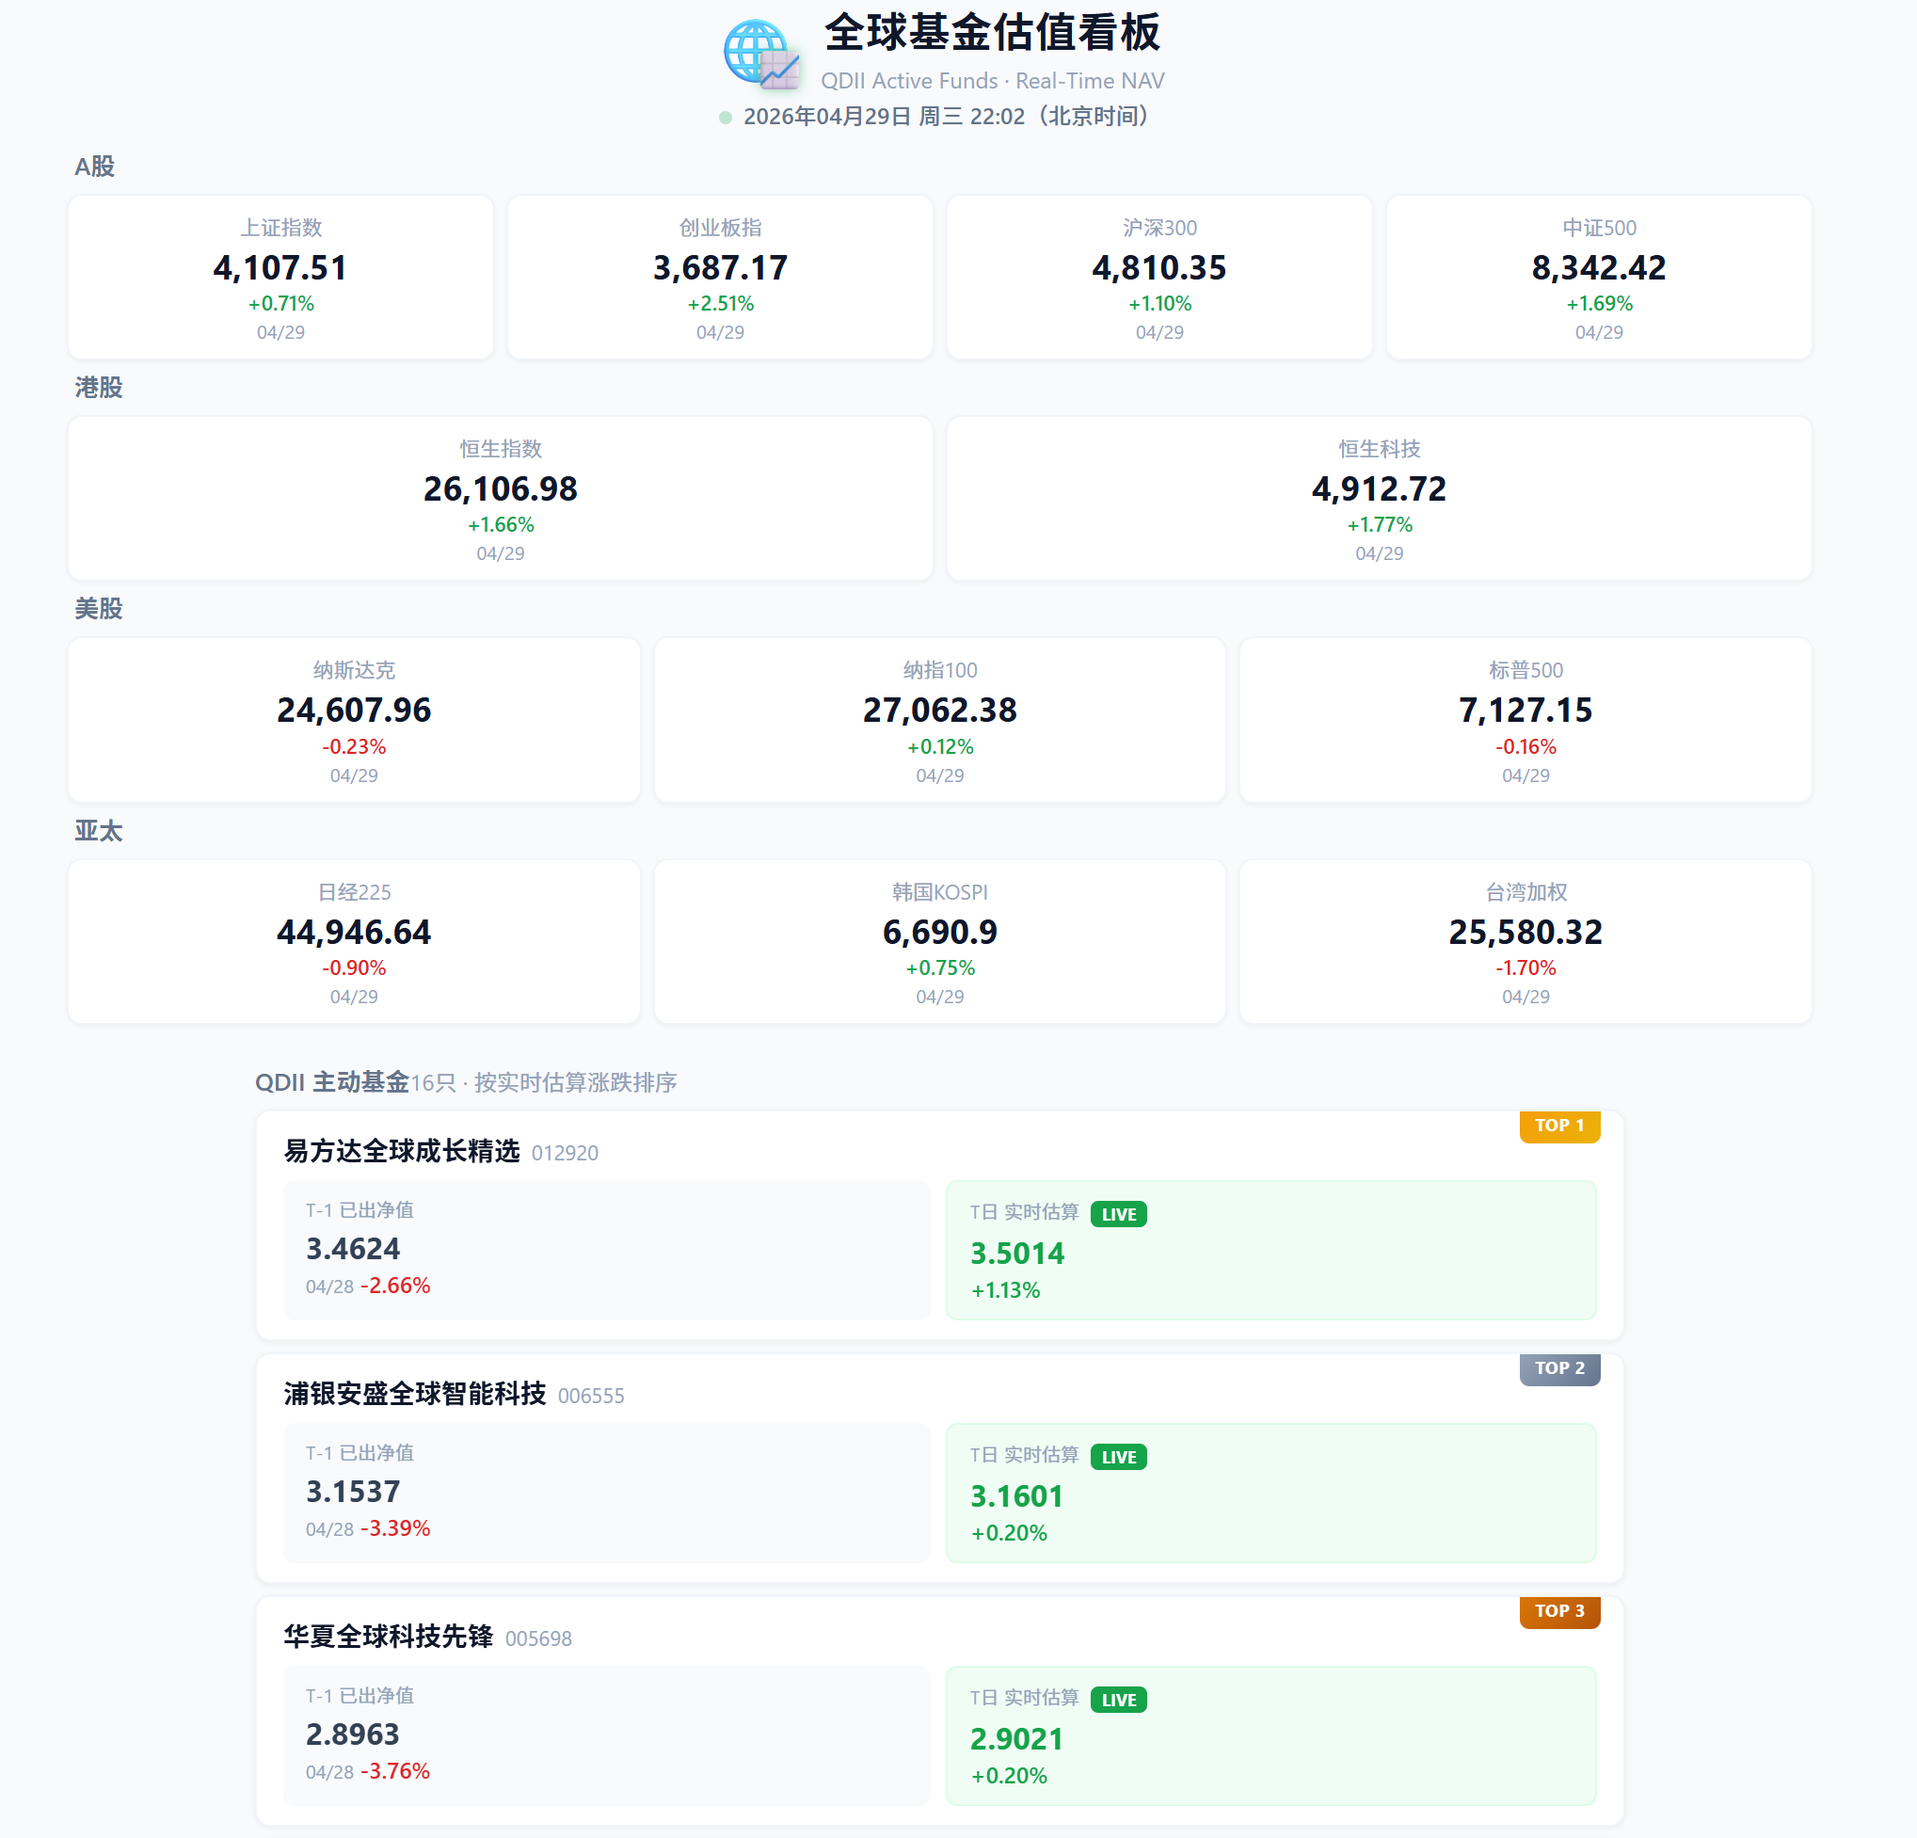
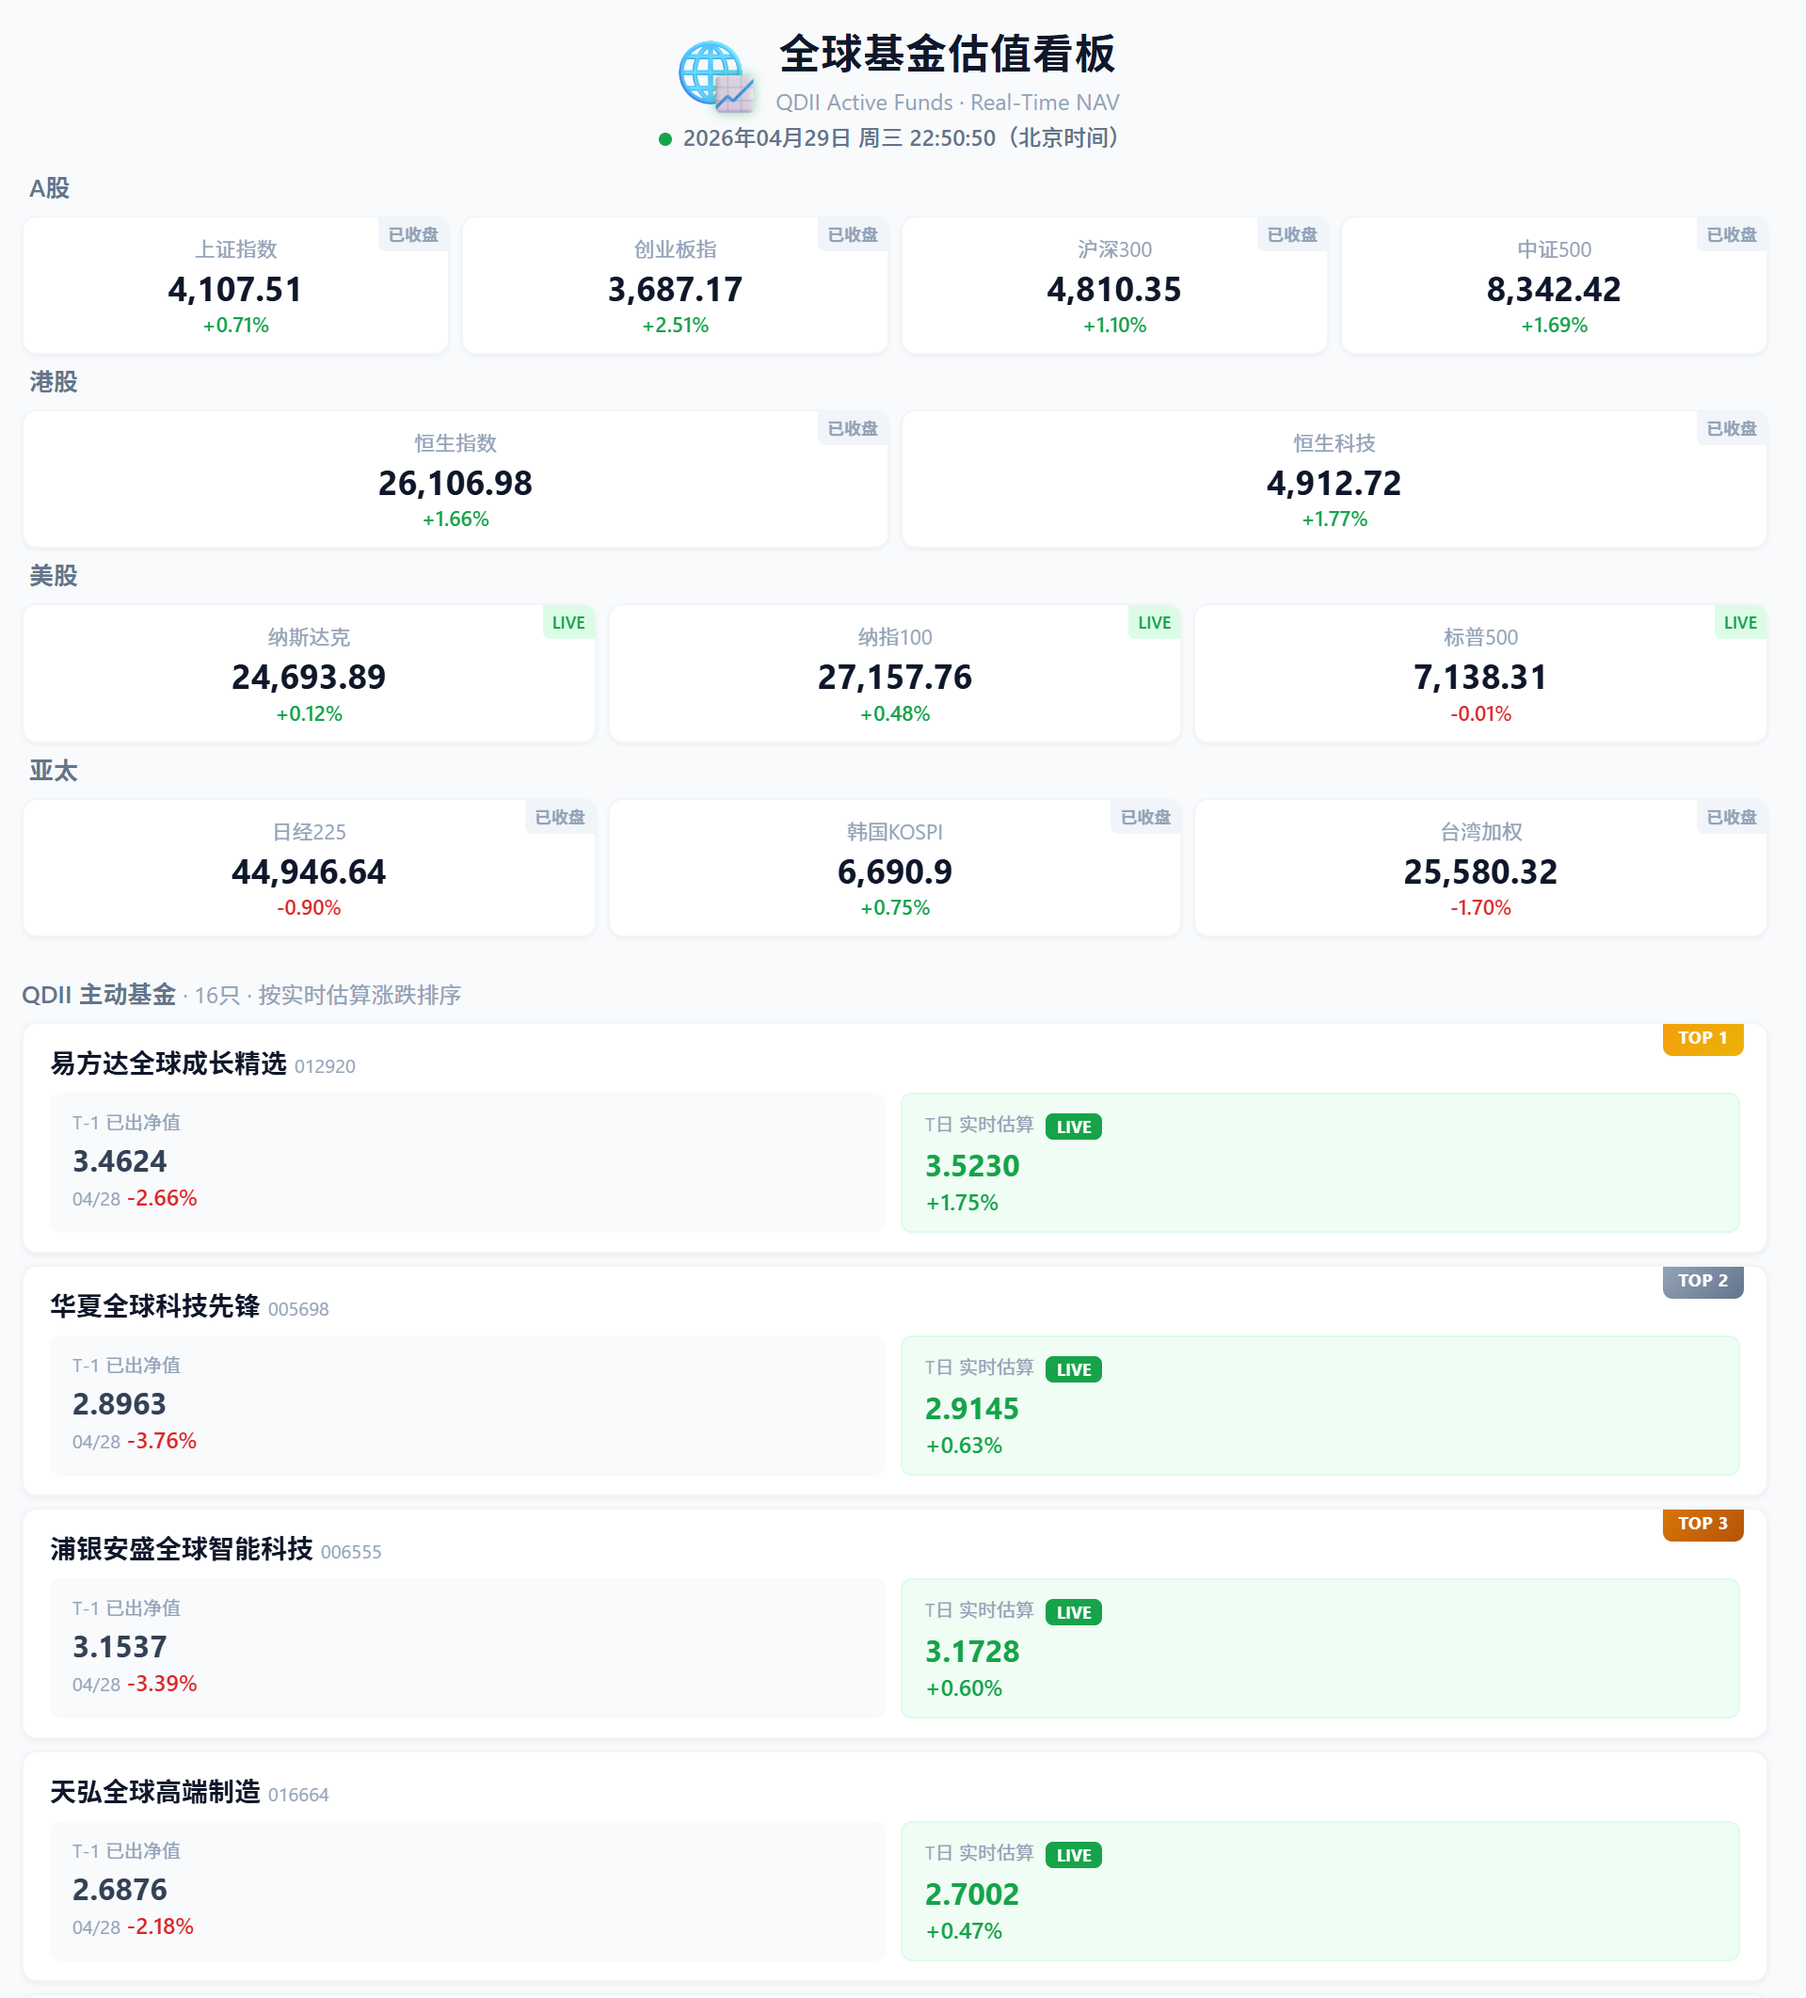
feat: 市场交易状态标签 + LIVE脉冲动画 + 秒级时钟 + 布局对齐

diff --git a/src/components/HoldingsTable.tsx b/src/components/HoldingsTable.tsx
@@ -1,18 +1,11 @@
 import type { Holding, QuoteData } from '../types';
+import { getMarketState } from '../marketHours';
 import styles from './HoldingsTable.module.css';
 
 interface Props {
   holdings: Holding[];
   quotes: QuoteData[];
   computedChange: number;
-}
-
-// Format YYYY-MM-DD → MM/DD
-function formatDate(yyyymmdd: string): string {
-  if (!yyyymmdd) return '';
-  const m = yyyymmdd.match(/^\d{4}-(\d{2})-(\d{2})$/);
-  if (m) return `${m[1]}/${m[2]}`;
-  return yyyymmdd;
 }
 
 export default function HoldingsTable({ holdings, quotes, computedChange }: Props) {
@@ -28,7 +21,7 @@ export default function HoldingsTable({ holdings, quotes, computedChange }: Prop
             <th className={styles.right}>现价</th>
             <th className={styles.right}>涨跌幅</th>
             <th className={styles.right}>贡献</th>
-            <th className={styles.right}>交易日</th>
+            <th className={styles.right}>状态</th>
           </tr>
         </thead>
         <tbody>
@@ -36,7 +29,7 @@ export default function HoldingsTable({ holdings, quotes, computedChange }: Prop
             const q = quoteMap.get(h.sinaSymbol);
             const up = (q?.changePercent ?? 0) >= 0;
             const contrib = q ? q.changePercent * h.weight : 0;
-            const dateStr = q ? formatDate(q.time) : '';
+            const state = getMarketState(h.sinaSymbol);
             return (
               <tr key={h.symbol}>
                 <td>
@@ -51,8 +44,10 @@ export default function HoldingsTable({ holdings, quotes, computedChange }: Prop
                 <td className={`${styles.right} ${contrib >= 0 ? styles.up : styles.down}`}>
                   {q ? `${contrib >= 0 ? '+' : ''}${contrib.toFixed(2)}%` : '-'}
                 </td>
-                <td className={`${styles.right} ${styles.timeCol}`}>
-                  {dateStr || '-'}
+                <td className={styles.right}>
+                  <span className={`${styles.stateTag} ${state === 'live' ? styles.stateLive : styles.stateClosed}`}>
+                    {state === 'live' ? 'LIVE' : '已收盘'}
+                  </span>
                 </td>
               </tr>
             );

diff --git a/src/marketHours.ts b/src/marketHours.ts
@@ -1,0 +1,58 @@
+// Trading sessions in Beijing time (UTC+8)
+interface Session { start: [number, number]; end: [number, number] }
+
+const SESSIONS: Record<string, Session[]> = {
+  cn: [
+    { start: [9, 30], end: [11, 30] },
+    { start: [13, 0], end: [15, 0] },
+  ],
+  hk: [
+    { start: [9, 30], end: [12, 0] },
+    { start: [13, 0], end: [16, 0] },
+  ],
+  us: [
+    // 9:30 AM ET = 21:30 Beijing (EDT); close 4:00 PM ET = 04:00 Beijing next day → 28:00
+    { start: [21, 30], end: [28, 0] },
+  ],
+  jp: [
+    { start: [8, 0], end: [10, 0] },
+    { start: [11, 30], end: [14, 0] },
+  ],
+  kr: [{ start: [8, 0], end: [14, 0] }],
+  tw: [{ start: [9, 0], end: [13, 30] }],
+};
+
+// Current Beijing time as minutes since midnight (0-1439)
+function beijingMinutes(): number {
+  const now = new Date();
+  const bj = new Date(now.getTime() + 8 * 60 * 60 * 1000);
+  return bj.getUTCHours() * 60 + bj.getUTCMinutes();
+}
+
+function isInSession(sessions: Session[]): boolean {
+  const mins = beijingMinutes();
+  return sessions.some((s) => {
+    const start = s.start[0] * 60 + s.start[1];
+    const end = s.end[0] * 60 + s.end[1];
+    return mins >= start && mins < end;
+  });
+}
+
+// Map sinaSymbol prefix to market key
+function marketKey(sinaSymbol: string): string | null {
+  if (sinaSymbol.startsWith('gb_')) return 'us';
+  if (sinaSymbol.startsWith('hk')) return 'hk';
+  if (sinaSymbol.startsWith('s_') || /^(sz|sh)\d/.test(sinaSymbol)) return 'cn';
+  if (sinaSymbol === 'int_nikkei') return 'jp';
+  if (sinaSymbol === 'b_KOSPI') return 'kr';
+  if (sinaSymbol === 'b_TWSE') return 'tw';
+  return null;
+}
+
+export type MarketState = 'live' | 'closed';
+
+export function getMarketState(sinaSymbol: string): MarketState {
+  const key = marketKey(sinaSymbol);
+  if (!key || !SESSIONS[key]) return 'closed';
+  return isInSession(SESSIONS[key]) ? 'live' : 'closed';
+}

diff --git a/src/components/IndexCards.tsx b/src/components/IndexCards.tsx
@@ -1,18 +1,11 @@
 import type { QuoteData, IndexConfig } from '../types';
 import { INDICES } from '../constants';
+import { getMarketState } from '../marketHours';
 import styles from './IndexCards.module.css';
 
 interface Props {
   quotes: Map<string, QuoteData>;
   loading: boolean;
-}
-
-// Format YYYY-MM-DD → MM/DD
-function formatDate(yyyymmdd: string): string {
-  if (!yyyymmdd) return '';
-  const m = yyyymmdd.match(/^\d{4}-(\d{2})-(\d{2})$/);
-  if (m) return `${m[1]}/${m[2]}`;
-  return yyyymmdd; // fallback: return as-is
 }
 
 function Card({ idx, data, loading }: { idx: IndexConfig; data?: QuoteData; loading: boolean }) {
@@ -26,15 +19,17 @@ function Card({ idx, data, loading }: { idx: IndexConfig; data?: QuoteData; load
     );
   }
   const up = data.change >= 0;
-  const dateStr = formatDate(data.time);
+  const state = getMarketState(idx.sinaSymbol);
   return (
     <div className={styles.card}>
+      <span className={`${styles.state} ${state === 'live' ? styles.stateLive : styles.stateClosed}`}>
+        {state === 'live' ? 'LIVE' : '已收盘'}
+      </span>
       <div className={styles.label}>{idx.name}</div>
       <div className={styles.price}>{data.price.toLocaleString()}</div>
       <div className={`${styles.change} ${up ? styles.up : styles.down}`}>
         {up ? '+' : ''}{data.changePercent.toFixed(2)}%
       </div>
-      {dateStr && <div className={styles.time}>{dateStr}</div>}
     </div>
   );
 }

diff --git a/src/components/Header.tsx b/src/components/Header.tsx
@@ -9,16 +9,17 @@ function formatTime() {
   const day = String(beijing.getUTCDate()).padStart(2, '0');
   const hour = String(beijing.getUTCHours()).padStart(2, '0');
   const minute = String(beijing.getUTCMinutes()).padStart(2, '0');
+  const second = String(beijing.getUTCSeconds()).padStart(2, '0');
   const weekdays = ['周日', '周一', '周二', '周三', '周四', '周五', '周六'];
   const weekday = weekdays[beijing.getUTCDay()];
-  return `${beijing.getUTCFullYear()}年${month}月${day}日 ${weekday} ${hour}:${minute}`;
+  return `${beijing.getUTCFullYear()}年${month}月${day}日 ${weekday} ${hour}:${minute}:${second}`;
 }
 
 export default function Header() {
   const [time, setTime] = useState(formatTime());
 
   useEffect(() => {
-    const timer = setInterval(() => setTime(formatTime()), 30000);
+    const timer = setInterval(() => setTime(formatTime()), 1000);
     return () => clearInterval(timer);
   }, []);
 

diff --git a/src/components/IndexCards.module.css b/src/components/IndexCards.module.css
@@ -37,6 +37,7 @@
   box-shadow: 0 1px 2px rgba(0,0,0,0.04);
   text-align: center;
   border: 1px solid #f1f5f9;
+  position: relative;
 }
 
 .label {
@@ -58,10 +59,31 @@
   font-weight: 500;
 }
 
-.time {
-  font-size: 10px;
+.state {
+  position: absolute;
+  top: 0;
+  right: 0;
+  font-size: 9px;
+  font-weight: 600;
+  padding: 1px 5px;
+  border-radius: 0 6px 0 4px;
+  line-height: 16px;
+}
+
+.stateLive {
+  color: #16a34a;
+  background: #dcfce7;
+  animation: livePulse 1.8s ease-in-out infinite;
+}
+
+@keyframes livePulse {
+  0%, 100% { opacity: 1; }
+  50% { opacity: 0.55; }
+}
+
+.stateClosed {
   color: #94a3b8;
-  margin-top: 1px;
+  background: #f1f5f9;
 }
 
 .up { color: #16a34a; }

diff --git a/src/App.tsx b/src/App.tsx
@@ -24,8 +24,7 @@ export default function App() {
       <IndexCards quotes={quotes} loading={loading} />
       <div className={styles.fundSection}>
         <h2 className={styles.sectionTitle}>
-          QDII 主动基金
-          <span className={styles.count}>{FUNDS.length}只 · 按实时估算涨跌排序</span>
+          QDII 主动基金<span className={styles.count}> · {FUNDS.length}只 · 按实时估算涨跌排序</span>
         </h2>
         {sortedEstimates.map((est) => {
           const fund = FUNDS.find((f) => f.code === est.fundCode)!;

diff --git a/src/components/HoldingsTable.module.css b/src/components/HoldingsTable.module.css
@@ -30,7 +30,30 @@
 
 .right { text-align: right; }
 
-.timeCol { color: #94a3b8; font-size: 10px; }
+.stateTag {
+  font-size: 9px;
+  font-weight: 600;
+  padding: 0 5px;
+  border-radius: 3px;
+  line-height: 16px;
+  display: inline-block;
+}
+
+.stateLive {
+  color: #16a34a;
+  background: #dcfce7;
+  animation: livePulse 1.8s ease-in-out infinite;
+}
+
+@keyframes livePulse {
+  0%, 100% { opacity: 1; }
+  50% { opacity: 0.55; }
+}
+
+.stateClosed {
+  color: #94a3b8;
+  background: #f1f5f9;
+}
 
 .up { color: #16a34a; }
 .down { color: #dc2626; }

diff --git a/src/App.module.css b/src/App.module.css
@@ -18,7 +18,7 @@
 
 .fundSection {
   padding: 4px 16px 32px;
-  max-width: 760px;
+  max-width: 960px;
   margin: 0 auto;
 }
 
